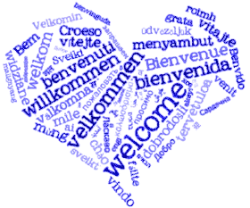
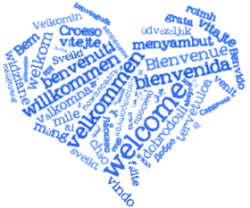
Try yet again: welcome heart links and image colour settings

Changed region(s): [[0.0, 0.0, 0.98, 1.0]]

diff --git a/styles.css b/styles.css
@@ -14,7 +14,7 @@ DARK THEME
     --link-color: black;
     --hover-color: white;
     --accent-color: #ff8080; 
-    --hue: 110deg;
+    --hue: 120deg;
     --invert: 0%;
 }
 body.dark-mode {
@@ -362,11 +362,11 @@ WELCOME HEART
   text-align: center;
   margin: 0 auto;
   width: 20vw;
-  height: 17vw; /* image ratio: 233px height / 280px width = 0.83 * 20 = 16.6 vw */
+  height: 17vw; /* image ratio: 208px height / 250px width = 0.832 * 20 = 16.64 vw */
   padding: 4vw 0 0;
   background-size: 100% 100%;
   background-image: url('assets/img/welcome-heart.webp');
-  filter: hue-rotate(var(--hue)) brightness(120%);
+  filter: hue-rotate(var(--hue)) brightness(110%);
 }
 .centerblock a {
     padding: 1px;
